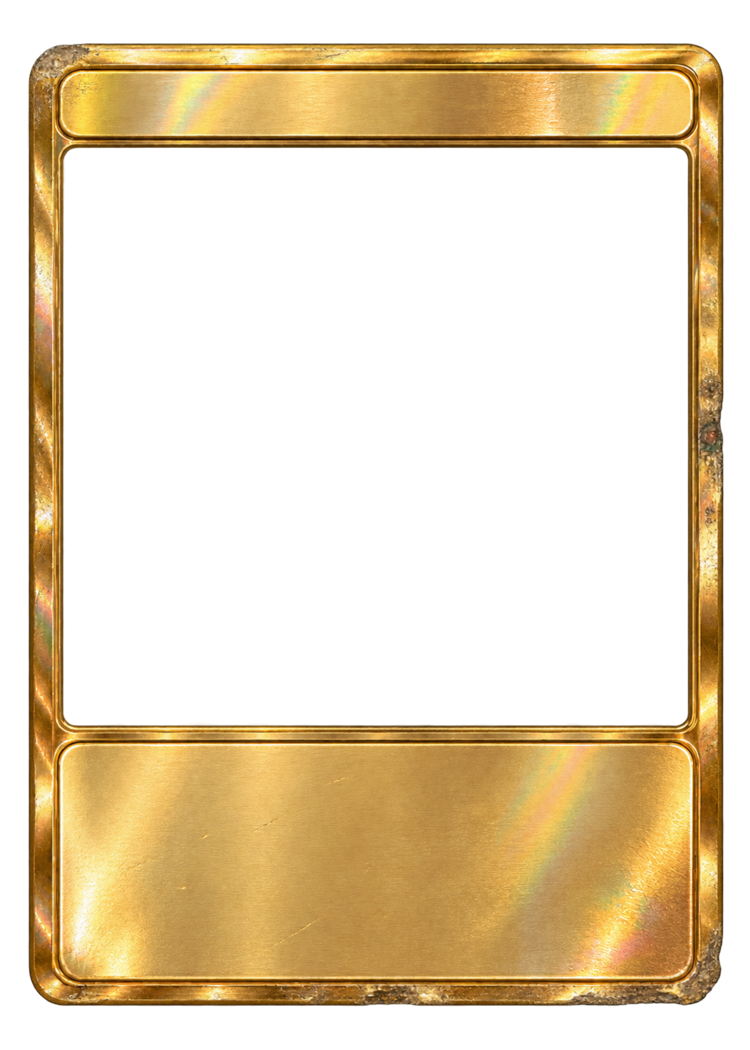
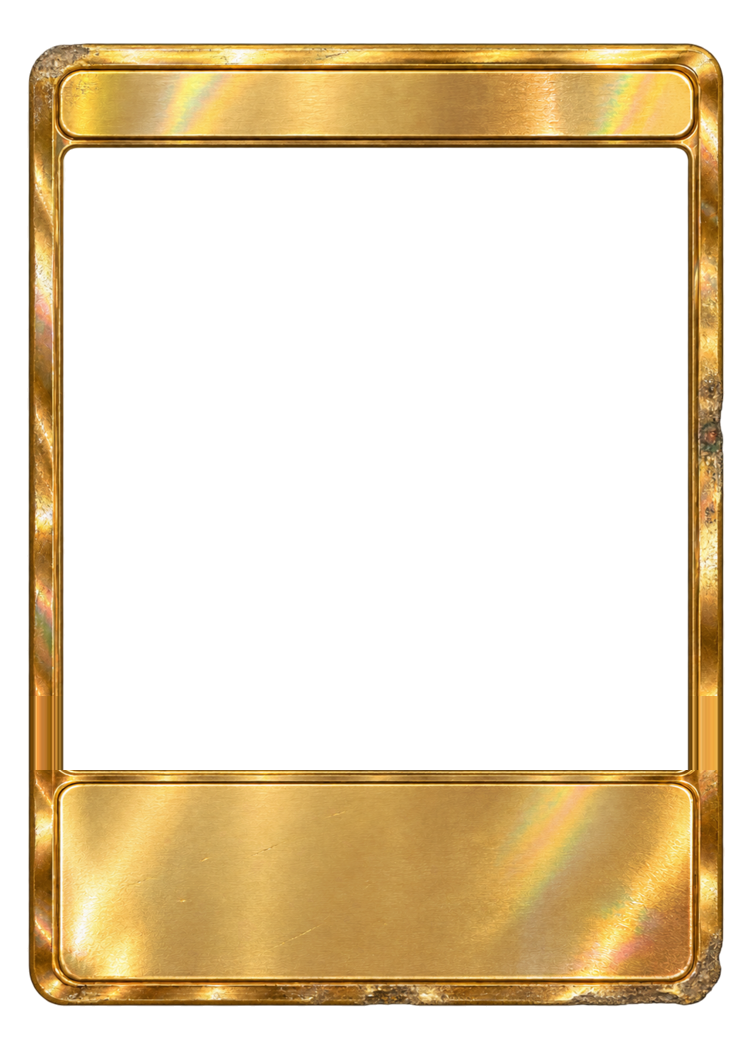
Gold frames: bottom panel moved to the standard spot so the divider bar survives the art window cut (fit_gold_panel.py, delivered files kept)
Claude-Session: https://claude.ai/code/session_01LEzX9WUx8sWcSwwRyLeaEz

Changed region(s): [[0.0307, 0.64, 0.9813, 0.9143]]

diff --git a/studio/frames-src/fit_gold_panel.py b/studio/frames-src/fit_gold_panel.py
@@ -1,0 +1,37 @@
+"""The Gold frames were delivered with their bottom panel starting 45 px (at 750 x 1050) higher than every other
+frame's, so the shared art window cut (y 148-770) trimmed off the gold bar between the art and the panel. The owner
+approved this fix: the panel is moved down to start where every other frame's does, and the brushed panel interior
+under it is squeezed to fit (the bottom rim and everything below it stay exactly as delivered). The side rails over the
+freed rows are copied from just above.
+
+  originals/delivered/gold/{clean,l2..l6}.png  (as delivered)  ->  originals[/wear/lN]/gold-holo.png
+
+Run from studio/:  python3 frames-src/fit_gold_panel.py   then   python3 frames-src/clean_frames.py
+"""
+import os
+import numpy as np
+from PIL import Image
+
+SRC = 'frames-src/originals/delivered/gold'
+TOP = 770  # where every other frame's bottom panel starts (the art window's bottom edge)
+RIM = 955  # from here down (the panel's bottom edge and the card rim) nothing moves
+
+
+def fit(path):
+    a = np.array(Image.open(path).convert('RGBA'))
+    col = a[:, a.shape[1] // 2, 3]
+    top = next(y for y in range(600, 800) if col[y] > 128)  # the delivered panel's top edge (~726)
+    out = a.copy()
+    panel = Image.fromarray(a[top:RIM]).resize((a.shape[1], RIM - TOP), Image.LANCZOS)
+    out[TOP:RIM] = np.array(panel)
+    # side rails with the window open between them, over the freed rows and the old window's rounded bottom corners
+    for y in range(top - 30, TOP):
+        out[y] = a[top - 40]
+    return out
+
+
+if __name__ == '__main__':
+    for name in ['clean', 'l2', 'l3', 'l4', 'l5', 'l6']:
+        dst = 'frames-src/originals/gold-holo.png' if name == 'clean' else f'frames-src/originals/wear/{name}/gold-holo.png'
+        Image.fromarray(fit(os.path.join(SRC, name + '.png'))).save(dst)
+        print('ok', dst)
